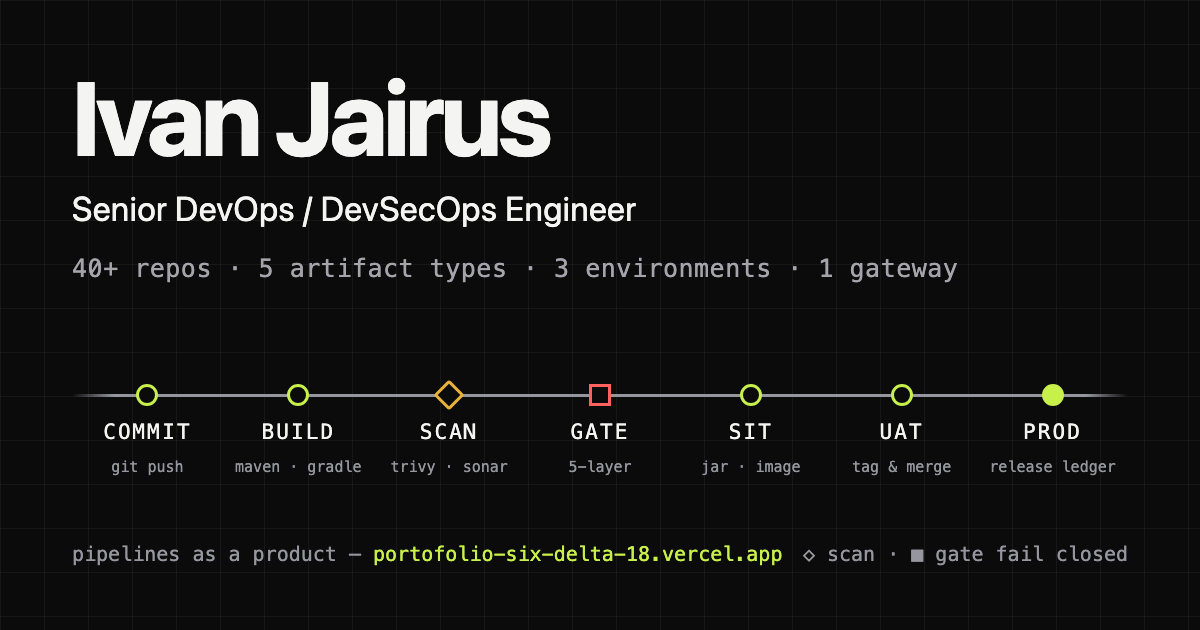
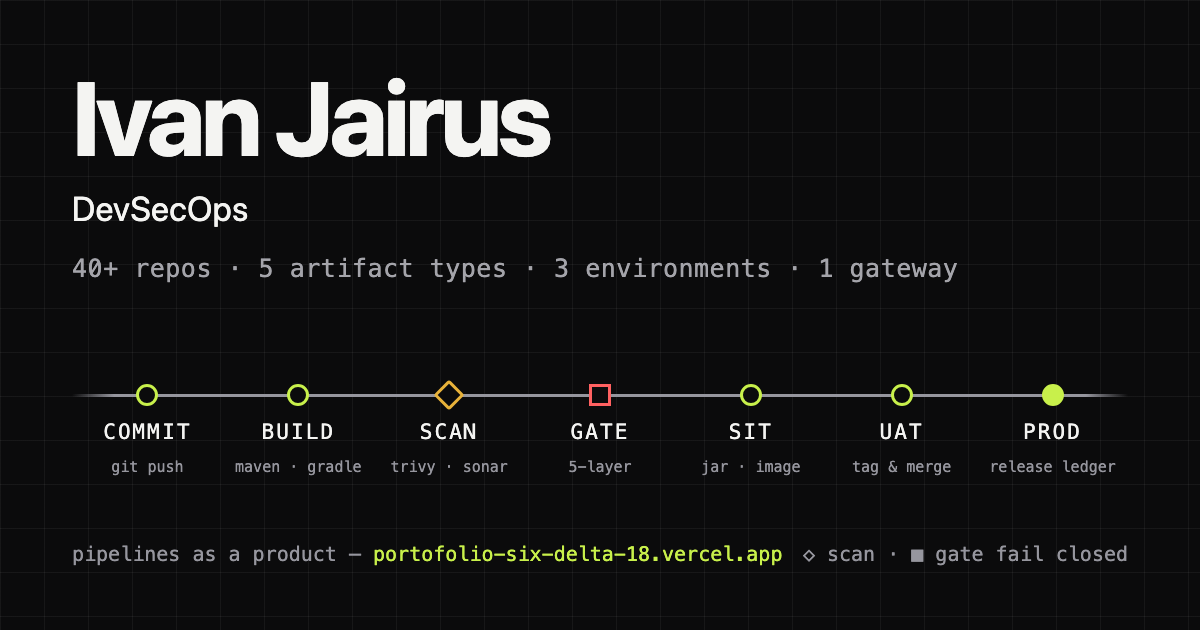
Role is now just 'DevSecOps' - no 'Senior', no 'Engineer'. Applied to config (role and the 2024 timeline title), the page title, meta description, og:title, twitter:title, og:image:alt, the photo alt, the About and Contact leads, the terminal username line, and the OG cover image which was re-render

Changed region(s): [[0.0617, 0.3016, 0.5242, 0.3619]]

diff --git a/index.html b/index.html
@@ -3,21 +3,21 @@
 <head>
   <meta charset="UTF-8" />
   <meta name="viewport" content="width=device-width, initial-scale=1.0" />
-  <title>Ivan Jairus — Senior DevOps / DevSecOps Engineer</title>
-  <meta name="description" content="Portfolio of Ivan Jairus, Senior DevOps / DevSecOps Engineer: CI/CD pipelines as a product, security gates, and release automation for banking-grade systems." />
+  <title>Ivan Jairus — DevSecOps</title>
+  <meta name="description" content="Portfolio of Ivan Jairus, DevSecOps: CI/CD pipelines as a product, security gates, and release automation for banking-grade systems." />
   <meta name="color-scheme" content="dark light" />
   <meta name="theme-color" content="#0b0b0c" />
   <link rel="canonical" href="https://portofolio-six-delta-18.vercel.app/" />
   <meta property="og:type" content="profile" />
   <meta property="og:url" content="https://portofolio-six-delta-18.vercel.app/" />
-  <meta property="og:title" content="Ivan Jairus — Senior DevOps / DevSecOps Engineer" />
+  <meta property="og:title" content="Ivan Jairus — DevSecOps" />
   <meta property="og:description" content="CI/CD pipelines as a product, security gates, and release automation for banking-grade systems. One gateway, forty repositories." />
   <meta property="og:image" content="https://portofolio-six-delta-18.vercel.app/assets/img/og-cover-1200x630.png" />
   <meta property="og:image:width" content="1200" />
   <meta property="og:image:height" content="630" />
-  <meta property="og:image:alt" content="Ivan Jairus, Senior DevOps / DevSecOps Engineer, above a release pipeline rail: commit, build, scan, gate, SIT, UAT, PROD." />
+  <meta property="og:image:alt" content="Ivan Jairus, DevSecOps, above a release pipeline rail: commit, build, scan, gate, SIT, UAT, PROD." />
   <meta name="twitter:card" content="summary_large_image" />
-  <meta name="twitter:title" content="Ivan Jairus — Senior DevOps / DevSecOps Engineer" />
+  <meta name="twitter:title" content="Ivan Jairus — DevSecOps" />
   <meta name="twitter:description" content="CI/CD pipelines as a product, security gates, and release automation for banking-grade systems." />
   <meta name="twitter:image" content="https://portofolio-six-delta-18.vercel.app/assets/img/og-cover-1200x630.png" />
   <meta name="twitter:image:alt" content="Release pipeline rail: commit, build, scan, gate, SIT, UAT, PROD." />
@@ -62,7 +62,7 @@
       <div class="wrap hero-grid">
         <div class="hero-id">
           <h1><span data-profile="name">Ivan Jairus</span></h1>
-          <p class="hero-role"><span data-profile="role">Senior DevOps / DevSecOps Engineer</span></p>
+          <p class="hero-role"><span data-profile="role">DevSecOps</span></p>
           <p class="hero-tag" data-i18n="hero.tagline">Platform engineer who turns release days into non-events.</p>
           <p class="hero-proof mono" data-i18n="hero.proof">40+ repos · 5 artifact types · 3 environments · 1 gateway</p>
 
@@ -78,7 +78,7 @@
             <img src="assets/img/profile.jpg"
                  srcset="assets/img/profile-480.jpg 480w, assets/img/profile.jpg 800w"
                  sizes="(max-width: 860px) 40vw, 240px"
-                 alt="Ivan Jairus — Senior DevOps / DevSecOps Engineer" data-i18n-attr="alt:hero.photo.alt"
+                 alt="Ivan Jairus — DevSecOps" data-i18n-attr="alt:hero.photo.alt"
                  width="800" height="1000" fetchpriority="high" decoding="async" />
           </div>
         </figure>
@@ -107,7 +107,7 @@
             <div class="terminal-bar"><i></i><i></i><i></i><span>~/ivan — zsh</span></div>
             <div class="terminal-body">
               <div class="ln cmd" data-i18n="hero.terminal.1">$ whoami</div>
-              <div class="ln out" data-i18n="hero.terminal.2">senior-devsecops-engineer // pipelines-as-a-product</div>
+              <div class="ln out" data-i18n="hero.terminal.2">devsecops // pipelines-as-a-product</div>
               <div class="ln cmd" data-i18n="hero.terminal.3">$ status --all</div>
               <div class="ln out dim-out" data-i18n="hero.terminal.4">gates: enforced   scans: wired   releases: boring</div>
             </div>
@@ -121,7 +121,7 @@
       <div class="wrap">
         <div class="section-head">
           <h2 data-i18n="about.title">Pipelines other people are happy to inherit.</h2>
-          <p class="lead" data-i18n="about.lead">Senior DevOps / DevSecOps Engineer, Jakarta. I design and maintain the release machinery behind banking-grade systems — and I document the trade-offs, not just the wins.</p>
+          <p class="lead" data-i18n="about.lead">DevSecOps, Jakarta. I design and maintain the release machinery behind banking-grade systems — and I document the trade-offs, not just the wins.</p>
         </div>
 
         <div class="pf-strip">
@@ -982,7 +982,7 @@
         <div class="timeline" data-profile="experience">
           <div class="tl-item">
             <div class="tl-period">2024 — Present</div>
-            <h3 class="tl-title">Senior DevOps / DevSecOps Engineer</h3>
+            <h3 class="tl-title">DevSecOps</h3>
             <div class="tl-company">State-owned banking group, Indonesia</div>
             <ul class="tl-points">
               <li>Own CI/CD for a wholesale banking platform: one pipeline standard shared by 40+ repositories across two CI engines.</li>
@@ -1027,7 +1027,7 @@
       <div class="wrap contact-in">
         <div>
           <h2 data-i18n="contact.title">Let's make releases boring.</h2>
-          <p class="lead" data-i18n="contact.lead">Open to senior DevSecOps roles.</p>
+          <p class="lead" data-i18n="contact.lead">Open to DevSecOps, platform engineering and developer-experience roles — on-premise or cloud, banking-grade or startup-speed.</p>
 
           <div class="mail-line">
             <a class="mail-link" data-profile="email-link" href="mailto:Filemonivanjairus@gmail.com">Filemonivanjairus@gmail.com</a>

diff --git a/assets/js/i18n.js b/assets/js/i18n.js
@@ -18,7 +18,7 @@ window.I18N = {
     "hero.flow.legend": "<span class=\"lm-scan\" aria-hidden=\"true\">◇</span> scan · <span class=\"lm-gate\" aria-hidden=\"true\">■</span> gate — fail closed",
     "hero.artifacts": "artifacts I ship: jar · image · apk/aab · ipa · web bundle — one standard for all five",
     "about.title": "Pipelines other people are happy to inherit.",
-    "about.lead": "Senior DevOps / DevSecOps Engineer, Jakarta. I design and maintain the release machinery behind banking-grade systems — and I document the trade-offs, not just the wins.",
+    "about.lead": "DevSecOps, Jakarta. I design and maintain the release machinery behind banking-grade systems — and I document the trade-offs, not just the wins.",
     "about.p1.text": "repos routed through one gateway",
     "about.p1.link": "see Architecture →",
     "about.p2.text": "tests written after the incident, not before",
@@ -199,10 +199,10 @@ window.I18N = {
     "hero.cta.work": "Selected work",
     "hero.cta.contact": "Get in touch",
     "hero.terminal.1": "$ whoami",
-    "hero.terminal.2": "senior-devsecops-engineer // pipelines-as-a-product",
+    "hero.terminal.2": "devsecops // pipelines-as-a-product",
     "hero.terminal.3": "$ status --all",
     "hero.terminal.4": "gates: enforced   scans: wired   releases: boring",
-    "hero.photo.alt": "Ivan Jairus — Senior DevOps / DevSecOps Engineer",
+    "hero.photo.alt": "Ivan Jairus — DevSecOps",
 
 
 
@@ -306,7 +306,7 @@ window.I18N = {
     "exp.title": "One direction, deepened",
 
     "contact.title": "Let's make releases boring.",
-    "contact.lead": "Open to senior DevSecOps, platform engineering and developer-experience roles — on-premise or cloud, banking-grade or startup-speed.",
+    "contact.lead": "Open to DevSecOps, platform engineering and developer-experience roles — on-premise or cloud, banking-grade or startup-speed.",
     "contact.email": "Email",
     "contact.location": "Based in",
     "contact.cta": "Copy email",

diff --git a/assets/js/config.js b/assets/js/config.js
@@ -9,8 +9,8 @@ window.PROFILE = {
   name: "Ivan Jairus",
   monogram: "IJ",
   role: {
-    en: "Senior DevOps / DevSecOps Engineer",
-    id: "Senior DevOps / DevSecOps Engineer"
+    en: "DevSecOps",
+    id: "DevSecOps"
   },
   location: "Jakarta, Indonesia",
   email: "Filemonivanjairus@gmail.com",
@@ -33,8 +33,8 @@ window.PROFILE = {
     {
       period: { en: "2024 — Present", id: "2024 — Sekarang" },
       title: {
-        en: "Senior DevOps / DevSecOps Engineer",
-        id: "Senior DevOps / DevSecOps Engineer"
+        en: "DevSecOps",
+        id: "DevSecOps"
       },
       company: {
         en: "State-owned banking group, Indonesia",
